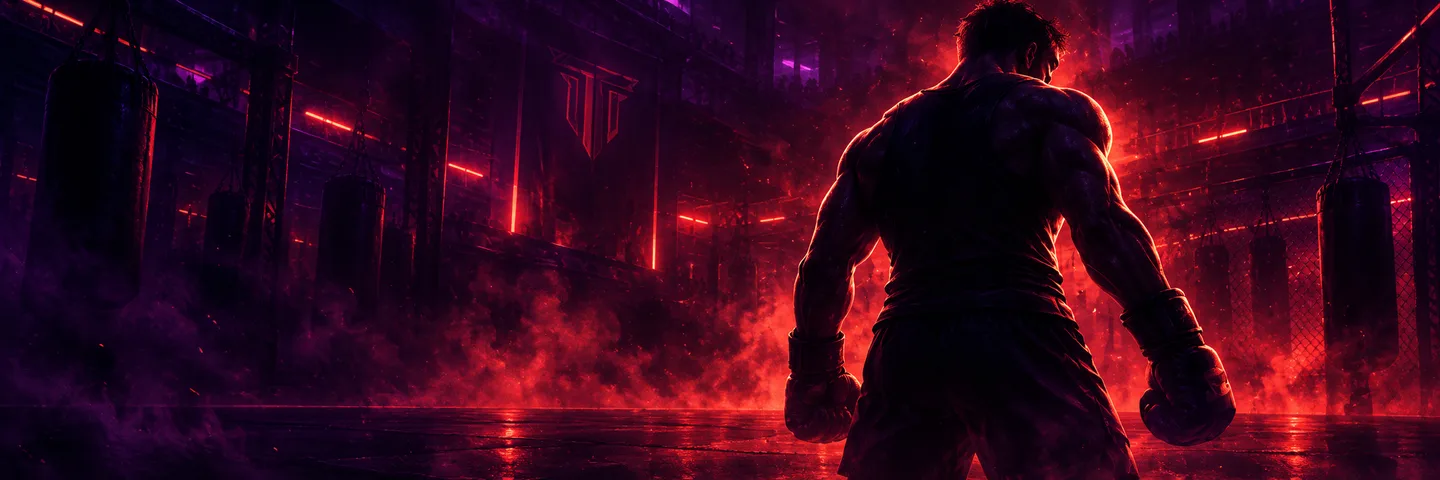
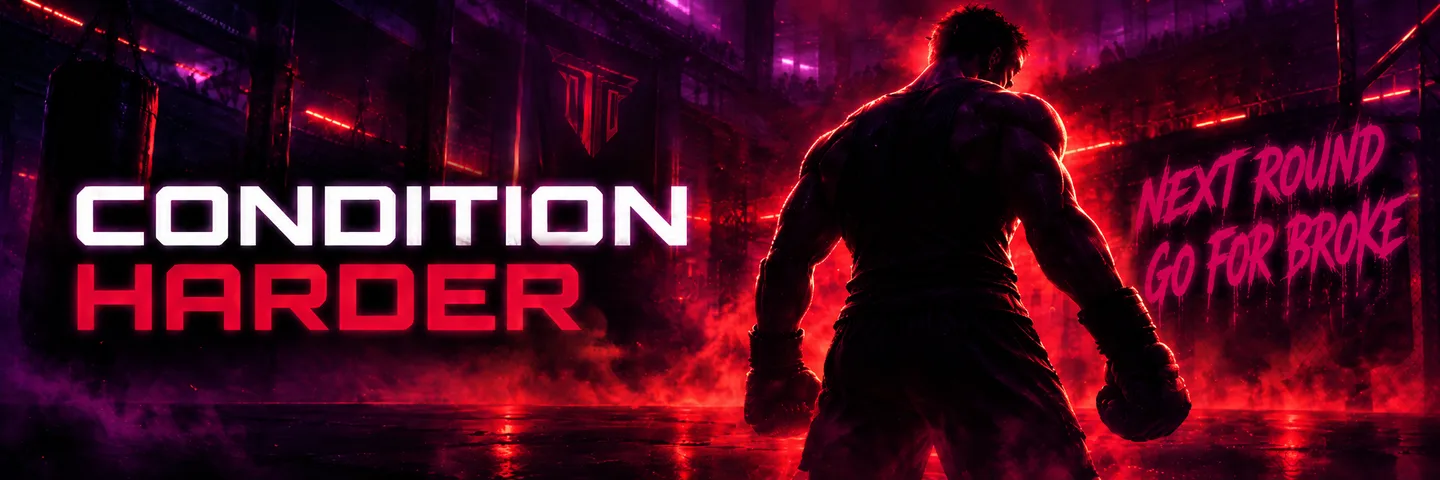
Combat Conditioning: new hero art, violet dim, no doubled title
The banner artwork now carries the CONDITION HARDER title itself — so the
HTML title overlay on top of it was doubling up and clipping at portrait
widths. Drop the overlay and let the artwork speak.

WHAT CHANGED

- public/static/hub/combat-hero.webp — new source image. 2172x724 PNG
  (1.9 MB) resized to 1440x480 WebP (68 KB, sharp @82). Same asset name
  and same format hub art has always used — every image under
  public/static/hub/ ships as .webp, and asset selection is locked in
  assets.lock.json (relocked in this commit).

- Slight dim + violet wash on the banner. A multiply-blended violet-black
  linear gradient (10% top -> 18% bottom) softens the neon reds, and a
  centred radial vignette in violet ties it to the app frame. Nothing
  crops the artwork.

- The HTML "CONDITION HARDER" and "FIT FIGHTER · STRONGER YOU." block is
  gone from CombatHeroBanner. The words are in the picture now, so the
  middle band of the banner is empty and the fighter reads through.

- objectPosition shifted from center-center to 32% center so the leading
  "C" of CONDITION does not clip on a 390px phone (the 3:1 image inside a
  2.6:1 banner has to crop something; biasing 18% left of centre preserves
  the title and only trims the far-right "GO FOR BROKE" graffiti).

- HYBRID chip and the live summary line stay at the top, and the three
  stat cards (focus / rounds+intensity / est. time) stay at the bottom —
  those are the parts that must react to state.
[…]

diff --git a/components/training-mode/CombatConditioningSetup.jsx b/components/training-mode/CombatConditioningSetup.jsx
@@ -219,13 +219,26 @@ function CombatHeroBanner({ preset, rounds, difficulty, durationMin }) {
         style={{
           position: 'absolute', inset: 0,
           width: '100%', height: '100%',
-          objectFit: 'cover', objectPosition: 'right center',
+          // The banner's CONDITION HARDER title lives in the artwork itself
+          // (baked into the WebP), so bias the crop slightly left of centre.
+          // A pure 'center' crop cuts the leading C off the title at portrait
+          // widths — 32% keeps the whole word intact while still showing the
+          // fighter, and only trims the far-right "GO FOR BROKE" graffiti.
+          objectFit: 'cover', objectPosition: '32% center',
           pointerEvents: 'none',
         }}
       />
+      {/* Slight dim + a violet wash to tie the banner to the app frame.
+          The CONDITION HARDER / NEXT ROUND GO FOR BROKE text lives inside
+          the artwork, so nothing here overlays it — just a soft tint. */}
       <div aria-hidden="true" style={{
         position: 'absolute', inset: 0,
-        background: 'linear-gradient(90deg, rgba(6,0,18,0.92) 0%, rgba(6,0,18,0.7) 40%, rgba(6,0,18,0.1) 78%, rgba(6,0,18,0) 100%)',
+        background: 'linear-gradient(180deg, rgba(60,10,100,0.10) 0%, rgba(30,4,60,0.18) 100%)',
+        mixBlendMode: 'multiply',
+      }}/>
+      <div aria-hidden="true" style={{
+        position: 'absolute', inset: 0,
+        background: 'radial-gradient(ellipse at 50% 50%, rgba(88,28,135,0.18) 0%, rgba(6,0,18,0.05) 55%, rgba(6,0,18,0.35) 100%)',
       }}/>
 
       <div style={{
@@ -239,31 +252,24 @@ function CombatHeroBanner({ preset, rounds, difficulty, durationMin }) {
           <span style={{
             fontFamily: "'Orbitron',sans-serif", fontWeight: 700, fontSize: 6.5,
             color: '#ff9a9a',
-            border: '1px solid rgba(239,68,68,0.5)', borderRadius: 4,
+            border: '1px solid rgba(239,68,68,0.6)', borderRadius: 4,
             padding: '2.5px 6px', letterSpacing: '0.14em', flexShrink: 0,
-            background: 'rgba(239,68,68,0.08)',
+            background: 'rgba(20,4,10,0.55)',
+            backdropFilter: 'blur(3px)',
+            WebkitBackdropFilter: 'blur(3px)',
           }}>HYBRID</span>
           <span style={{
             fontFamily: "'Orbitron',sans-serif", fontWeight: 700, fontSize: 8,
             color: '#ffd7d7', letterSpacing: '0.08em',
             whiteSpace: 'nowrap', overflow: 'hidden', textOverflow: 'ellipsis', minWidth: 0,
+            textShadow: '0 1px 6px rgba(0,0,0,0.9)',
           }}>{summaryLine}</span>
         </div>
 
-        <div style={{ maxWidth: '68%' }}>
-          <div style={{
-            fontFamily: "'Orbitron',sans-serif", fontWeight: 900,
-            fontSize: 'clamp(19px, 5.6vw, 26px)',
-            lineHeight: 1, letterSpacing: '0.01em',
-            color: '#fff',
-            textShadow: '0 2px 12px rgba(0,0,0,0.75)',
-          }}>CONDITION HARDER</div>
-          <div style={{
-            fontFamily: "'Rajdhani',sans-serif", fontWeight: 600, fontSize: 9,
-            color: '#e6dcff', letterSpacing: '0.12em', marginTop: 3,
-            textShadow: '0 1px 8px rgba(0,0,0,0.85)',
-          }}>FIT FIGHTER · STRONGER YOU.</div>
-        </div>
+        {/* Middle band left empty — the banner artwork carries the
+            CONDITION HARDER title itself, so overlaying HTML text on top
+            would double up and misalign at responsive widths. */}
+        <div/>
 
         <div style={{
           display: 'grid',
